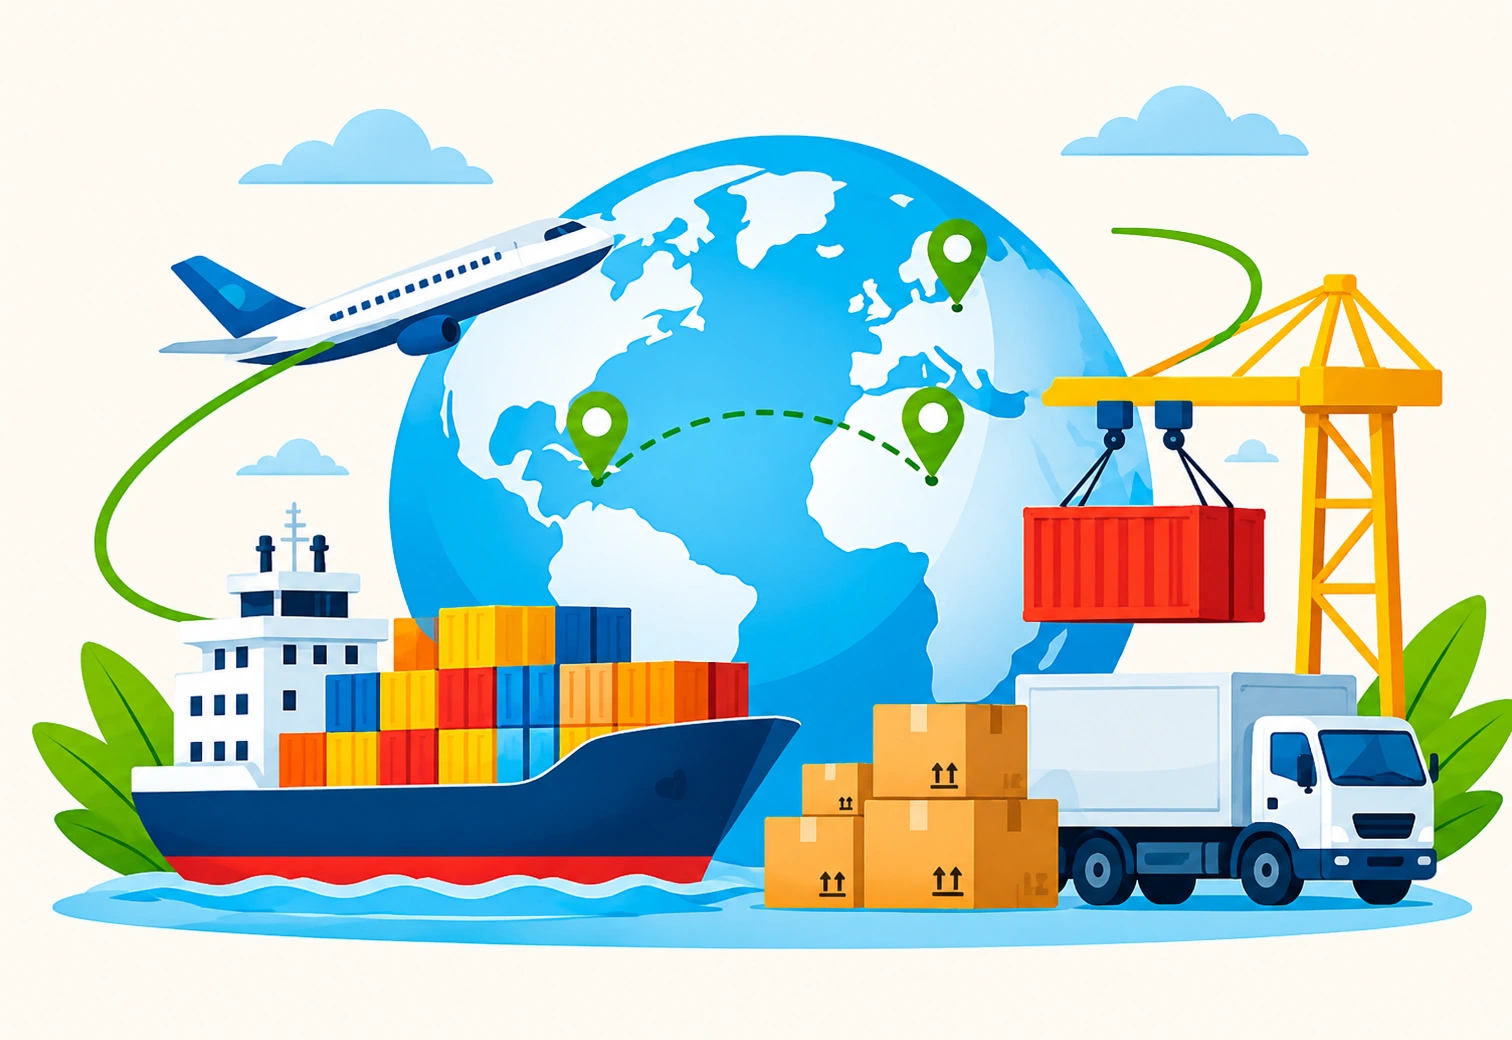
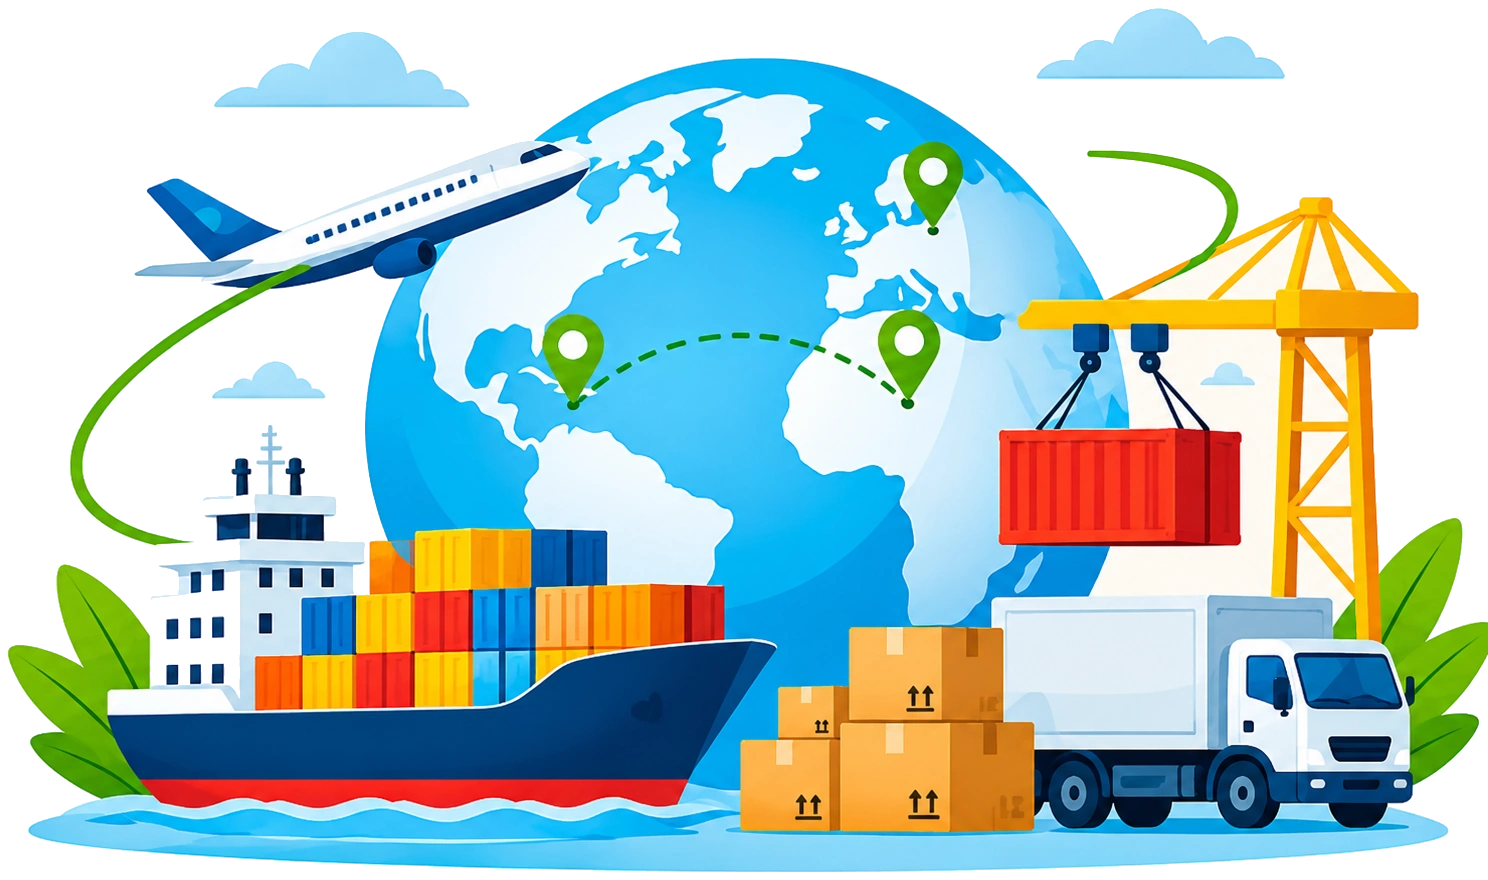
add

diff --git a/src/App.css b/src/App.css
@@ -206,8 +206,8 @@ main { padding-top: 82px; }
 .about-copy .section-heading { max-width: 620px; margin-bottom: 18px; }
 .about-copy .section-heading h2 { font-size: clamp(2.35rem,3.5vw,3.35rem); line-height: 1.04; }
 .about-description { max-width: 590px; margin: 0; color: var(--muted); font-size: 1rem; line-height: 1.7; }
-.about-illustration { min-width: 0; }
-.about-illustration img { display: block; width: 100%; max-width: 100%; height: auto; object-fit: contain; }
+.about-illustration { min-width: 0; padding: 0; border: 0; background: transparent; }
+.about-illustration img { display: block; width: 100%; max-width: 100%; height: auto; background: transparent; object-fit: contain; }
 .activities-mini { display: grid; grid-template-columns: repeat(4,minmax(0,1fr)); margin: 34px 0 0; padding: 0; border-top: 1px solid var(--line); list-style: none; }
 .activities-mini li { display: flex; min-width: 0; align-items: baseline; gap: 12px; padding: 18px 16px; border-right: 1px solid var(--line); }
 .activities-mini li:last-child { border-right: 0; }
@@ -739,22 +739,6 @@ main { padding-top: 82px; }
   font-size: .86rem;
   line-height: 1.5;
 }
-.footer-bottom p:last-child {
-  color: var(--brand-primary);
-  font-size: .84rem;
-  font-weight: 700;
-  letter-spacing: .08em;
-  text-align: right;
-}
-.footer-bottom p:last-child span { padding: 0 5px; }
-.icons8-credit {
-  color: #b8b8b3;
-  font-size: .78rem;
-  line-height: 1.5;
-  text-decoration: none;
-}
-.icons8-credit:hover, .icons8-credit:focus-visible { color: var(--brand-primary); }
-
 @media(max-width:980px) {
   .header { width: calc(100% - 32px); height: 48px; }
   .brand { min-height: 46px; padding: 6px 17px; }
@@ -893,7 +877,6 @@ main { padding-top: 82px; }
   .footer-contact-list { gap: 14px; }
   .footer-map-link { width: 100%; }
   .footer-bottom { align-items: flex-start; flex-direction: column; gap: 8px; margin-top: 26px; padding-top: 16px; }
-  .footer-bottom p:last-child { text-align: left; }
 }
 
 @media(max-width:360px) {

diff --git a/src/App.jsx b/src/App.jsx
@@ -185,7 +185,7 @@ function App() {
               <p className="about-description">IRHAM ENTERPRISE connects businesses to global markets through reliable import, export, auction bidding and trusted supplier partnerships. We focus on quality sourcing and dependable business relationships.</p>
             </div>
             <div className="about-illustration">
-              <img src={aboutTradeImage} width="1512" height="1040" alt="International trade and global logistics illustration for IRHAM ENTERPRISE." loading="lazy" decoding="async" />
+              <img src={aboutTradeImage} width="1488" height="880" alt="International trade and global logistics illustration for IRHAM ENTERPRISE." loading="lazy" decoding="async" />
             </div>
           </div>
           <ul className="activities-mini" aria-label="Business activities">
@@ -365,8 +365,6 @@ function App() {
 
           <div className="footer-bottom">
             <p>© 2026 {businessConfig.companyName}. All rights reserved.</p>
-            <p>GLOBAL <span>•</span> SOURCED <span>•</span> SUPPLIED</p>
-            <a className="icons8-credit" href="https://icons8.com/icon/adP55IMyNCXR/i" target="_blank" rel="noopener noreferrer">Icon by Icons8</a>
           </div>
         </div>
       </footer>
